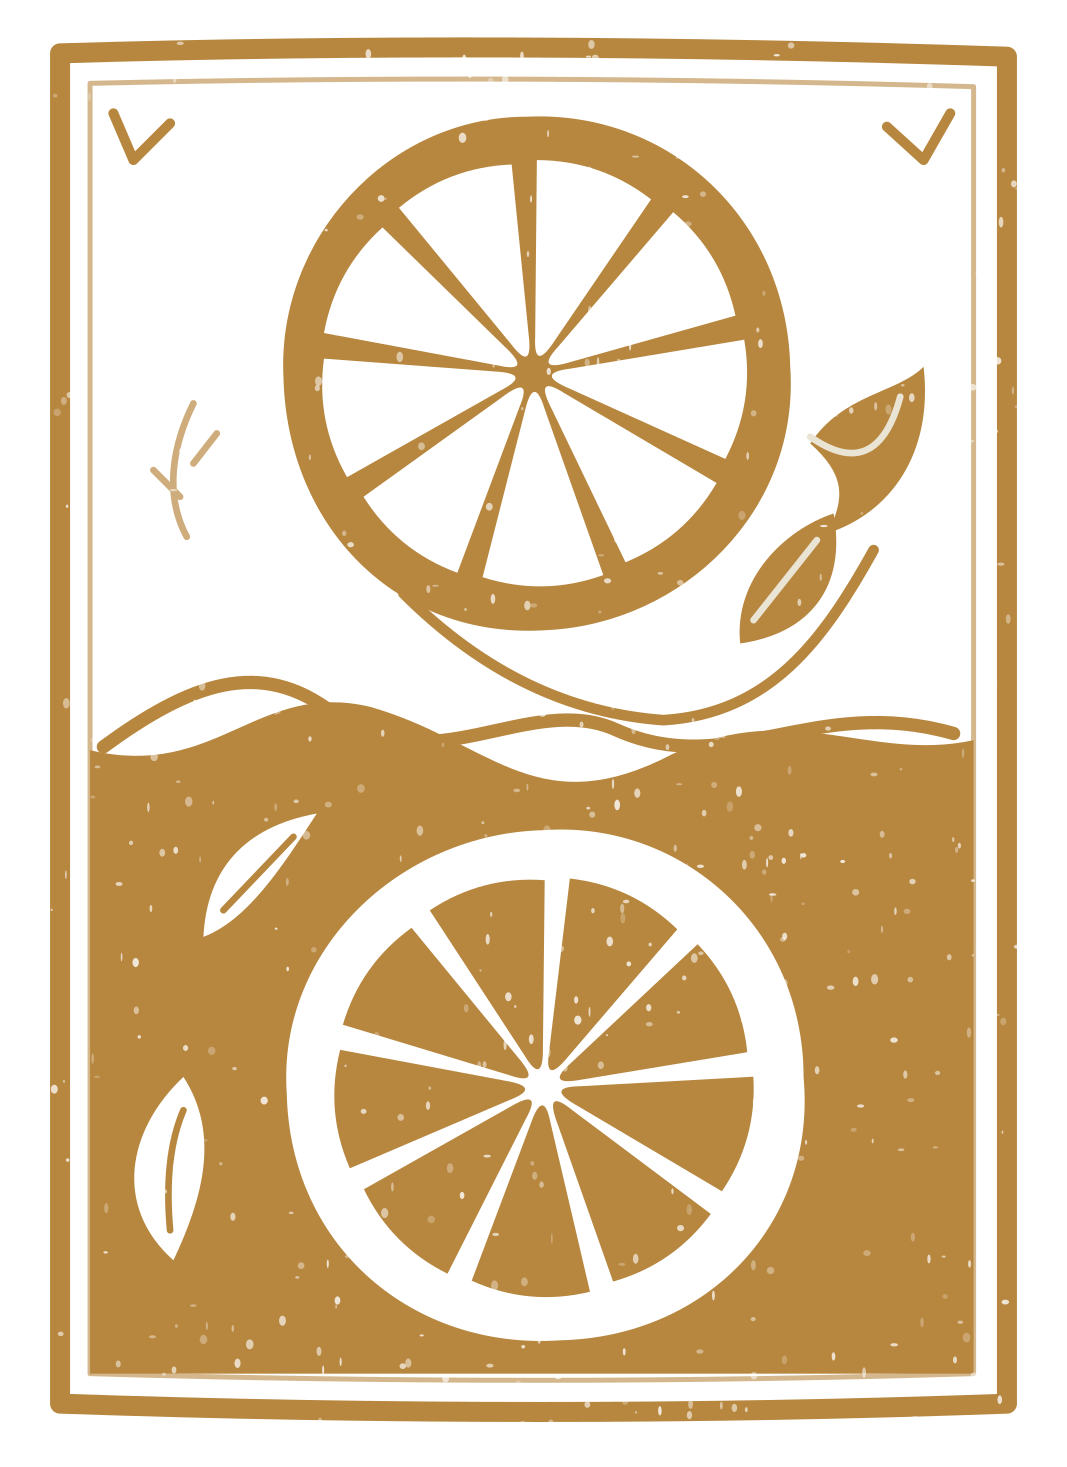
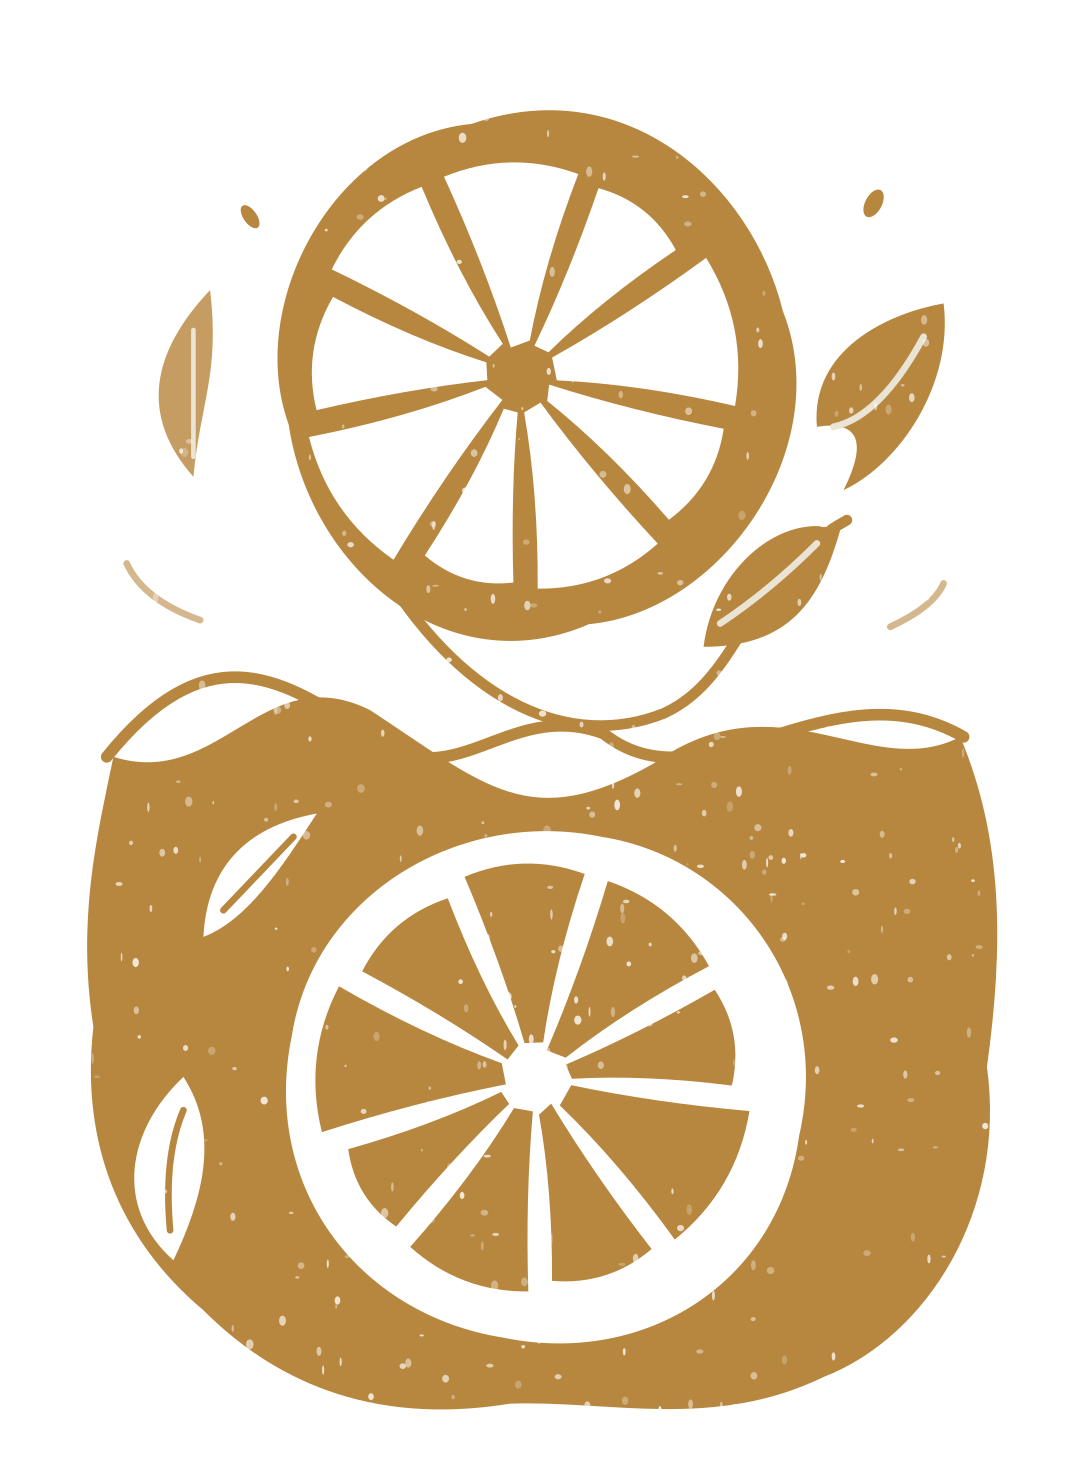
push prod5

diff --git a/src/app/globals.css b/src/app/globals.css
@@ -99,7 +99,7 @@ html:has(.portfolio) {
 /* No overflow/transform on these ancestors: every sheet shares the scroll viewport. */
 .story-pages {
   position: relative;
-  z-index: 1;
+  z-index: auto;
   --journey-height: 4.5rem;
 }
 
@@ -315,8 +315,8 @@ body {
 }
 
 ::selection {
-  background: var(--color-rose);
-  color: var(--color-paper);
+  background: color-mix(in srgb, var(--color-amber) 22%, transparent);
+  color: var(--color-ink);
 }
 
 :focus-visible {
@@ -523,18 +523,20 @@ body {
   .portrait-name-scroll-ink { stroke-dashoffset: 0; transition: none; }
 }
 
-/* Reserve the bio layout; typing starts after the name reveal ends. */
+/* Text is visible by default. Only the entrance temporarily hides each letter.
+   No forwards fill: completed animations cannot retain an invisible text layer. */
 .bio-letter {
-  animation: bio-letter-in 1ms step-end calc(var(--name-reveal-start) + var(--name-reveal-duration) + var(--letter-delay)) both;
+  visibility: visible;
+  animation: bio-letter-in 25ms step-end calc(var(--name-reveal-start, 1.7s) + var(--name-reveal-duration, 1.25s) - 0.5s + var(--letter-delay, 0s)) backwards;
 }
 
 @keyframes bio-letter-in {
-  from { opacity: 0; }
-  to { opacity: 1; }
+  from { visibility: hidden; }
+  to { visibility: visible; }
 }
 
 @media (prefers-reduced-motion: reduce) {
-  .bio-letter { animation: none; }
+  .bio-letter { animation: none; visibility: visible; }
 }
 
 .journey-progress {
@@ -562,4 +564,102 @@ body {
 }
 @media (prefers-reduced-motion: reduce) {
   .journey-nav[data-visible="true"] .journey-brand { transition: none; }
+}
+
+/* Contact links move from the navigation into the parchment closing page. */
+.journey-nav { display: flex; align-items: center; justify-content: space-between; }
+.journey-nav ol { min-width: 0; flex-shrink: 0; }
+.social-links { display: flex; align-items: center; justify-content: center; gap: 12px; }
+.social-links a, .social-links button { display: grid; place-items: center; width: 44px; height: 44px; color: var(--color-olive); border-radius: 50%; }
+.social-links svg { width: 22px; height: 22px; }
+.social-links a:hover, .social-links button:hover { background: rgb(57 71 53 / 8%); }
+.social-links a:focus-visible, .social-links button:focus-visible { outline: 2px solid var(--color-olive); outline-offset: 3px; }
+.nav-socials { display: none; }
+.site-closing {
+  min-height: 100svh;
+  display: flex;
+  flex-direction: column;
+  align-items: center;
+  justify-content: center;
+  gap: 24px;
+  box-sizing: border-box;
+  position: relative;
+  z-index: 3;
+  background: var(--color-parchment);
+  color: var(--color-ink);
+  border-top: 1px solid var(--color-line);
+  border-radius: 2rem 2rem 0 0;
+  padding: clamp(36px, 6vw, 80px) 24px 24px;
+  text-align: center;
+}
+.site-closing h2 { font-family: var(--font-cormorant), serif; font-size: clamp(24px, 2.7vw, 34px); font-weight: 400; line-height: 1.4; margin: -10px auto 0; max-width: 560px; color: var(--color-ink-muted); }
+.closing-socials { width: fit-content; margin-inline: auto; }
+
+.social-links button { cursor: pointer; }
+.share-control { position: relative; display: block; }
+.share-status { position: absolute; top: 100%; left: 0; width: max-content; max-width: 220px; font-size: 11px; line-height: 1.5; color: var(--color-ink-muted); }
+.share-url { position: absolute; top: calc(100% + 36px); left: 0; width: 250px; padding: 8px; background: var(--color-paper); border: 1px solid var(--color-line); font-size: 12px; z-index: 20; }
+.closing-top { display: grid; place-items: center; width: 44px; height: 44px; margin: 0; cursor: pointer; border: 1px solid rgb(57 71 53 / 25%); border-radius: 50%; color: var(--color-olive); }
+.closing-top svg { width: 20px; height: 20px; }
+.closing-top:hover { background: rgb(57 71 53 / 8%); }
+.closing-top:focus-visible { outline: 2px solid var(--color-olive); outline-offset: 4px; }
+
+.closing-placeholder {
+  display: grid;
+  place-items: center;
+  width: min(100%, 640px, 65svh);
+  aspect-ratio: 1000 / 620;
+  border: 1px dashed rgb(57 71 53 / 22%);
+  color: var(--color-ink-muted);
+  font-size: 12px;
+  margin-bottom: 16px;
+}
+
+.nav-actions {
+  position: relative;
+  flex: 0 0 44px;
+  height: 44px;
+  margin-right: clamp(1rem, 4vw, 4rem);
+}
+.nav-top {
+  position: absolute;
+  right: 0;
+  top: 0;
+  opacity: 0;
+  visibility: hidden;
+  transform: translateX(32px);
+  transition: transform 320ms ease, opacity 240ms ease, visibility 0s 320ms;
+}
+.nav-actions[data-footer="true"] .nav-top {
+  opacity: 1;
+  visibility: visible;
+  transform: translateX(0);
+  transition-delay: 920ms, 920ms, 920ms;
+}
+@media (min-width: 900px) {
+  .nav-actions { flex-basis: 212px; }
+  .nav-socials {
+    display: block;
+    position: absolute;
+    right: 0;
+    top: 0;
+    opacity: 1;
+    visibility: visible;
+    transform: translateX(0);
+    transition: transform 380ms cubic-bezier(.4, 0, .2, 1) 360ms, opacity 260ms ease 360ms, visibility 0s 360ms;
+  }
+  .nav-actions[data-footer="true"] .nav-socials {
+    opacity: 0;
+    visibility: hidden;
+    transform: translateX(64px);
+    transition-delay: 500ms, 580ms, 880ms;
+  }
+}
+@media (max-width: 480px) {
+  .journey-nav:has(.nav-actions) ol { padding-inline: 12px; }
+  .journey-nav:has(.nav-actions) li + li { margin-left: 16px; }
+  .nav-actions { margin-right: 12px; }
+}
+@media (prefers-reduced-motion: reduce) {
+  .nav-actions .nav-top, .nav-actions .nav-socials { transition: none; transform: none; }
 }

diff --git a/src/components/story-journey.tsx b/src/components/story-journey.tsx
@@ -7,6 +7,7 @@ export function StoryJourney({ children }: { children: ReactNode }) {
   const root = useRef<HTMLDivElement>(null);
   const nav = useRef<HTMLElement>(null);
   const [active, setActive] = useState("about");
+  const [footerVisible, setFooterVisible] = useState(false);
   const [visible, setVisible] = useState(false);
 
   useEffect(() => {
@@ -16,6 +17,7 @@ export function StoryJourney({ children }: { children: ReactNode }) {
     const sections = Array.from(container.querySelectorAll<HTMLElement>(":scope > section"));
     const about = document.getElementById("about");
     const portrait = about?.querySelector<HTMLElement>(".portrait");
+    const footer = document.getElementById("contacto");
     let frame = 0;
     function updateActive() {
       frame = 0;
@@ -38,17 +40,21 @@ export function StoryJourney({ children }: { children: ReactNode }) {
         nameGone = nameProgress >= 1;
       }
       const entered = distance > 1;
-      setVisible(nameGone);
+      const footerEntered = !!footer && footer.getBoundingClientRect().top < window.innerHeight;
+      setVisible(nameGone || footerEntered);
       // Use document flow distances, not the moving positions of sticky sheets.
       const scroll = window.scrollY;
       const containerTop = container!.getBoundingClientRect().top + scroll;
+      setFooterVisible(footerEntered);
       const maxScroll = Math.max(0, document.documentElement.scrollHeight - window.innerHeight);
       let sectionStart = containerTop - navigation!.offsetHeight;
       const clamp = (value: number) => Math.max(0, Math.min(1, value));
       navigation!.style.setProperty("--progress-about", String(clamp(scroll / Math.max(1, sectionStart))));
       sections.forEach((section, index) => {
         const nextStart = sectionStart + section.offsetHeight;
-        const sectionEnd = index === sections.length - 1 ? maxScroll : Math.min(nextStart, maxScroll);
+        const sectionEnd = index === sections.length - 1 && footer
+          ? Math.min(footer.getBoundingClientRect().top + scroll - window.innerHeight, maxScroll)
+          : Math.min(nextStart, maxScroll);
         const progress = clamp((scroll - sectionStart) / Math.max(1, sectionEnd - sectionStart));
         navigation!.style.setProperty(`--progress-${section.id}`, String(progress));
         sectionStart = nextStart;
@@ -74,6 +80,7 @@ export function StoryJourney({ children }: { children: ReactNode }) {
     const observer = new ResizeObserver(measure);
     observer.observe(navigation);
     if (portrait) observer.observe(portrait);
+    if (footer) observer.observe(footer);
     sections.forEach((section) => observer.observe(section));
     measure();
     window.addEventListener("resize", measure);
@@ -104,7 +111,7 @@ export function StoryJourney({ children }: { children: ReactNode }) {
 
   return (
     <div ref={root} className="story-pages">
-      <JourneyNavigation navRef={nav} active={active} visible={visible} onNavigate={navigate} />
+      <JourneyNavigation navRef={nav} active={active} visible={visible} footerVisible={footerVisible} onNavigate={navigate} />
       {children}
     </div>
   );

diff --git a/src/components/share-button.tsx b/src/components/share-button.tsx
@@ -1,0 +1,39 @@
+"use client";
+
+import { useState } from "react";
+import { seoConfig } from "@/config/seo";
+
+export function ShareButton() {
+  const [status, setStatus] = useState("");
+  const [showLink, setShowLink] = useState(false);
+
+  async function share() {
+    setStatus("");
+    setShowLink(false);
+    if (navigator.share) {
+      try {
+        await navigator.share({ title: seoConfig.name, text: seoConfig.description, url: seoConfig.url });
+        return;
+      } catch (error) {
+        if (error instanceof Error && error.name === "AbortError") return;
+      }
+    }
+    try {
+      await navigator.clipboard.writeText(seoConfig.url);
+      setStatus("Enlace copiado");
+    } catch {
+      setShowLink(true);
+      setStatus("Copia este enlace para compartir");
+    }
+  }
+
+  return (
+    <span className="share-control">
+      <button type="button" onClick={share} aria-label="Compartir" title="Compartir">
+        <svg viewBox="0 0 24 24" fill="none" stroke="currentColor" strokeWidth="1.4" strokeLinecap="round" strokeLinejoin="round" aria-hidden="true"><path d="M12 15V3m-4 4 4-4 4 4M7 11H4v10h16V11h-3" /></svg>
+      </button>
+      <span role="status" className="share-status">{status}</span>
+      {showLink && <input className="share-url" aria-label="Enlace para compartir" readOnly value={seoConfig.url} onFocus={(event) => event.currentTarget.select()} />}
+    </span>
+  );
+}

diff --git a/src/components/journey-navigation.tsx b/src/components/journey-navigation.tsx
@@ -1,5 +1,7 @@
 "use client";
 
+import { BackToTop } from "@/components/back-to-top";
+import { SocialLinks } from "@/components/social-links";
 import Link from "next/link";
 import type { CSSProperties, MouseEvent, Ref } from "react";
 import { BrandMark } from "@/components/brand-mark";
@@ -11,10 +13,11 @@ const stops = [
   { id: "processo", label: "Processo" },
 ];
 
-export function JourneyNavigation({ navRef, active, visible = true, onNavigate }: {
+export function JourneyNavigation({ navRef, active, visible = true, footerVisible = false, onNavigate }: {
   navRef?: Ref<HTMLElement>;
   active?: string;
   visible?: boolean;
+  footerVisible?: boolean;
   onNavigate?: (event: MouseEvent<HTMLAnchorElement>, id: string) => void;
 }) {
   return (
@@ -30,6 +33,10 @@ export function JourneyNavigation({ navRef, active, visible = true, onNavigate }
           </li>
         ))}
       </ol>
+      <div className="nav-actions" data-footer={footerVisible}>
+        <div className="nav-socials" inert={footerVisible} aria-hidden={footerVisible}><SocialLinks /></div>
+        <div className="nav-top" inert={!footerVisible} aria-hidden={!footerVisible}><BackToTop /></div>
+      </div>
     </nav>
   );
 }

diff --git a/src/components/social-links.tsx b/src/components/social-links.tsx
@@ -1,0 +1,16 @@
+import { ShareButton } from "@/components/share-button";
+import { siteConfig } from "@/config/site";
+
+const links = [
+  { label: "Instagram", href: siteConfig.instagram.url, path: "M7 3h10a4 4 0 0 1 4 4v10a4 4 0 0 1-4 4H7a4 4 0 0 1-4-4V7a4 4 0 0 1 4-4ZM16 12a4 4 0 1 1-8 0 4 4 0 0 1 8 0M17.5 6.5h.01" },
+  { label: "Correo electrónico", href: `mailto:${siteConfig.email}`, path: "M3 5h18v14H3ZM3 5l9 8 9-8" },
+  { label: "Teléfono", href: `tel:${siteConfig.phone.replaceAll(" ", "")}`, path: "M8 3H4c-1 0-1 2-1 3 0 8 7 15 15 15 1 0 3 0 3-1v-4l-5-2-2 3c-3-1-6-4-7-7l3-2Z" },
+];
+
+export function SocialLinks() {
+  return <div className="social-links"><ShareButton />{links.map(({ label, href, path }) => (
+    <a key={label} href={href} aria-label={label} title={label}>
+      <svg viewBox="0 0 24 24" fill="none" stroke="currentColor" strokeWidth="1.4" strokeLinecap="round" strokeLinejoin="round" aria-hidden="true"><path d={path} /></svg>
+    </a>
+  ))}</div>;
+}

diff --git a/src/components/back-to-top.tsx b/src/components/back-to-top.tsx
@@ -1,0 +1,16 @@
+"use client";
+
+export function BackToTop() {
+  function goUp() {
+    window.history.replaceState(null, "", "/#about");
+    window.scrollTo({ top: 0, behavior: window.matchMedia("(prefers-reduced-motion: reduce)").matches ? "instant" : "smooth" });
+    const about = document.getElementById("about");
+    if (about) {
+      about.tabIndex = -1;
+      about.focus({ preventScroll: true });
+    }
+  }
+  return <button type="button" onClick={goUp} className="closing-top" aria-label="Volver al inicio" title="Volver al inicio">
+    <svg viewBox="0 0 24 24" fill="none" stroke="currentColor" strokeWidth="1.4" strokeLinecap="round" strokeLinejoin="round" aria-hidden="true"><path d="M12 19V5m-6 6 6-6 6 6" /></svg>
+  </button>;
+}

diff --git a/src/components/short-bio.tsx b/src/components/short-bio.tsx
@@ -15,7 +15,7 @@ export function ShortBio() {
         {lines.map(({ text, offset }) => (
           <span key={text} className="block not-first:mt-3">
             {Array.from(text.replaceAll("-", "\u2011")).map((letter, index) => (
-              <span key={index} className="bio-letter" style={{ "--letter-delay": `${(offset + index) * 0.025}s` } as CSSProperties}>{letter}</span>
+              <span key={index} className="bio-letter" style={{ "--letter-delay": `${(offset + index) * 0.022}s` } as CSSProperties}>{letter}</span>
             ))}
           </span>
         ))}

diff --git a/src/components/site-footer.tsx b/src/components/site-footer.tsx
@@ -1,0 +1,13 @@
+import { SocialLinks } from "@/components/social-links";
+
+export function SiteFooter() {
+  return (
+    <footer id="contacto" className="site-closing" lang="es" aria-labelledby="closing-title">
+      <div className="closing-placeholder" role="img" aria-label="Espacio reservado para una ilustración">
+        <span>Ilustración</span>
+      </div>
+      <h2 id="closing-title">La naturaleza, destilada en aromas y saboreada de otra manera.</h2>
+      <div className="closing-socials"><SocialLinks /></div>
+    </footer>
+  );
+}

diff --git a/src/app/page.tsx b/src/app/page.tsx
@@ -1,5 +1,6 @@
 import type { Metadata } from "next";
 import { homeMetadata } from "@/config/seo";
+import { SiteFooter } from "@/components/site-footer";
 import { StoryJourney } from "@/components/story-journey";
 import { AboutSection } from "@/components/sections/about-section";
 import { MapSection } from "@/components/sections/map-section";
@@ -26,6 +27,7 @@ export default function Home() {
           {/* <EcosystemSection /> */}
         </StoryJourney>
       </main>
+      <SiteFooter />
     </div>
   );
 }

diff --git a/MAP.md b/MAP.md
@@ -137,7 +137,7 @@ Ejemplo tomado del documento de referencia. Se utiliza como narración conceptua
 
 **Compartir — La elaboración encuentra su sentido en los demás.** Llevarlo a la mesa, escuchar a quien lo prueba y compartir lo aprendido. La experiencia de los demás devuelve preguntas al territorio: el recorrido vuelve a empezar.
 
-El paso Relaciones utiliza `public/illustrations/relaciones.webp`, con versiones PNG y SVG: una estampa vertical ocre de dos rodajas de cítrico, una en positivo y otra en negativo, unidas por un tallo y una división ondulada. El marco y la textura ligera evocan la referencia aportada. La fuente editable está en `docs/artwork/relaciones-mark.svg`; los espacios sin tinta son transparentes. El nombre y la explicación siguen en la maquetación de Elaborar. No añade un séptimo ámbito exterior al mapa; desarrolla el concepto central dentro del ejemplo.
+El paso Relaciones utiliza `public/illustrations/relaciones.webp`, con versiones PNG y SVG: una estampa vertical ocre de dos rodajas de cítrico, una en positivo y otra en negativo, unidas por un tallo y una división ondulada. No tiene marco; los segmentos irregulares, la ligera inclinación y la silueta orgánica le dan un carácter más libre. La fuente editable está en `docs/artwork/relaciones-mark.svg`; los espacios sin tinta son transparentes. El nombre y la explicación siguen en la maquetación de Elaborar. No añade un séptimo ámbito exterior al mapa; desarrolla el concepto central dentro del ejemplo.
 
 ## Lenguaje visual
 
